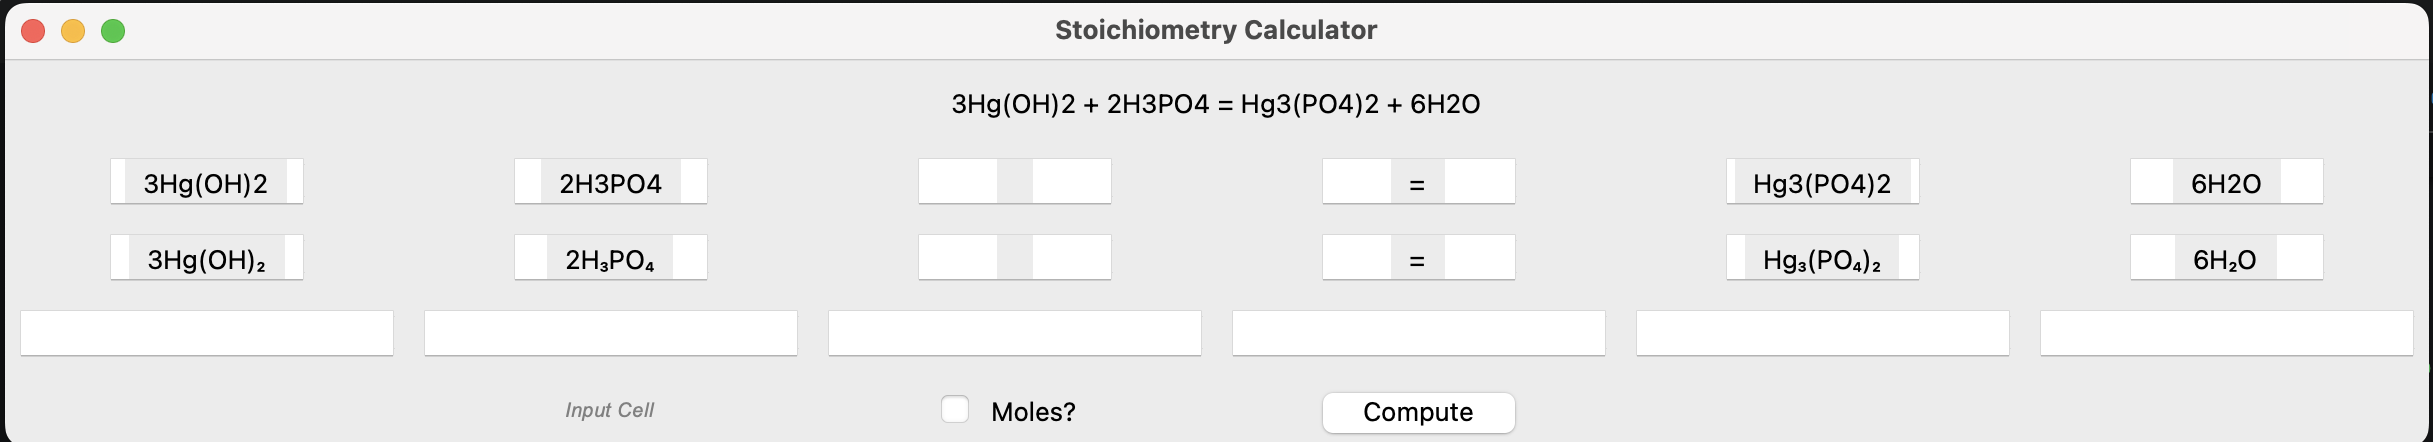
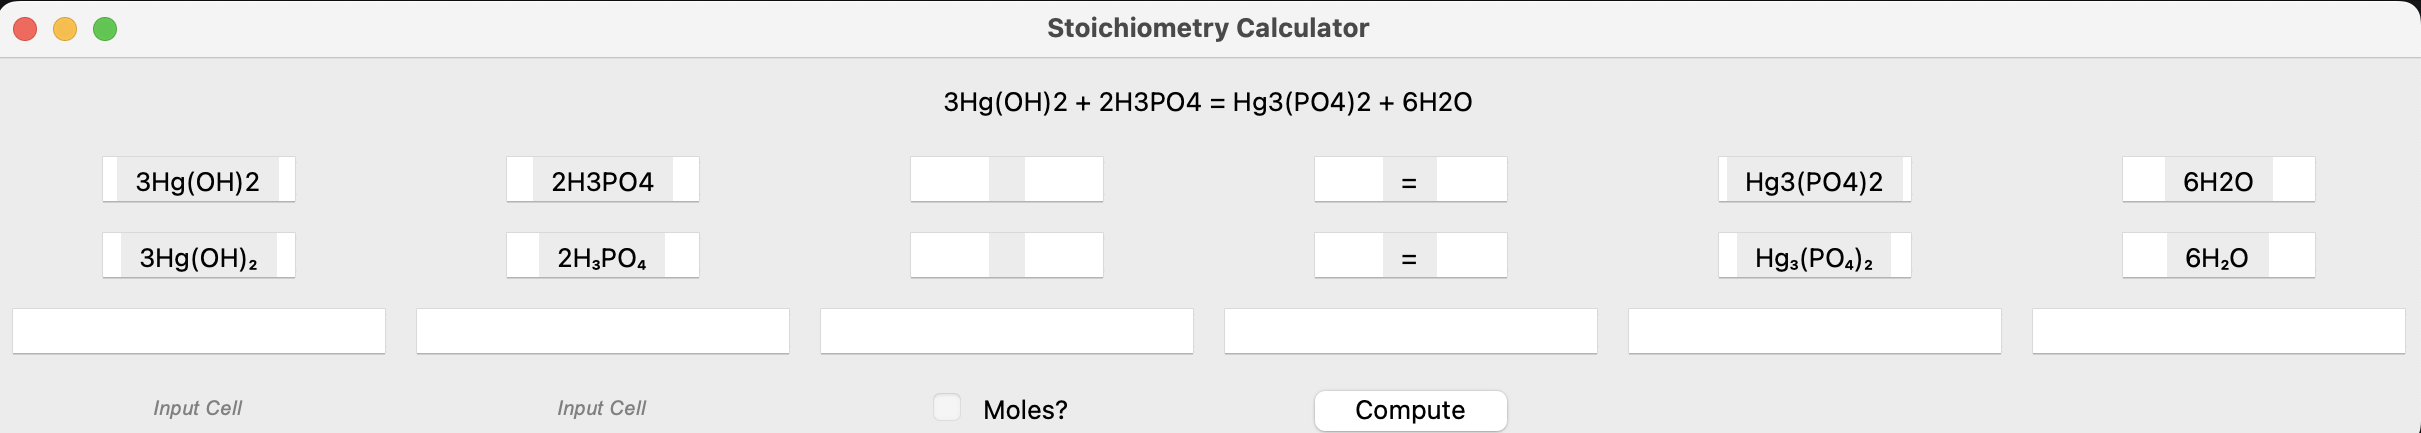
Added user interphase image into the image folder

diff --git a/Homework 2/Lab_measurement.py b/Homework 2/Lab_measurement.py
@@ -6,13 +6,13 @@ from Chemistry import molesAndCompounds, atomCount, splitOnAtomCount, symbolAndM
 with open("/Users/ika/Desktop/Spring_2025/CS5630/python_comput_data_science/Homework 2/Homework 2 short sample input.txt", "r") as file:
     equation = file.readline().strip()
 
-# Parse equation dynamically for any number of reactants/products
+# Parse equation dynamically
 reactants, products = equation.split("=")
 reactants = [r.strip() for r in reactants.split("+")]
 products = [p.strip() for p in products.split("+")]
 
-# Include separators, but replace "|" with an empty string
-compounds = reactants + [""] + ["="] + products  # "|" replaced with ""
+# Include separators but replace "|" with an empty string
+compounds = reactants + [""] + ["="] + products  
 
 # Ensure UI supports at least 6 columns
 while len(compounds) < 6:
@@ -26,17 +26,17 @@ def get_molar_mass(compound):
     atoms = atomCount(compound)
     return sum(float(periodic_data[element]) * int(count) for element, count in atoms.items())
 
-# Store molar masses for all compounds
+# Store molar masses
 molar_masses = {compound: get_molar_mass(compound) for compound in compounds if compound not in ["", "="]}
 
 # Convert formulas to display subscripts properly
 def transform_to_subscript(compound):
-    if compound == "=":  # ✅ Ensure "=" is not transformed
+    if compound == "=":
         return "="
     parts = splitOnAtomCount(compound)
     transformed = ""
     for part in parts:
-        transformed += f"{numberAsSubscript(part)}" if (part.isdigit() and parts.index(part) != 0) else part  # Ensure all numbers convert
+        transformed += f"{numberAsSubscript(part)}" if (part.isdigit() and parts.index(part) != 0) else part
     return transformed
 
 # GUI Setup
@@ -46,88 +46,114 @@ root.title("Stoichiometry Calculator")
 # Display equation
 tk.Label(root, text=equation).grid(row=0, column=0, columnspan=6, pady=10)
 
-# First Row: Chemical Names (Includes `=` but NOT `|`)
+# First Row: Chemical Names
 for i, compound in enumerate(compounds):
     tk.Entry(root, justify="center", width=10, state="readonly",
              readonlybackground="white", fg="black").grid(row=1, column=i, padx=5, pady=5)
     tk.Label(root, text=compound).grid(row=1, column=i, padx=5, pady=5)
 
-# Second Row: Transformed Subscripts (Ensures `=` remains visible)
+# Second Row: Transformed Subscripts
 for i, compound in enumerate(compounds):
-    transformed = transform_to_subscript(compound)  # ✅ This will now keep "=" visible
+    transformed = transform_to_subscript(compound)
     tk.Entry(root, justify="center", width=10, state="readonly",
              readonlybackground="white", fg="black").grid(row=2, column=i, padx=5, pady=5)
     tk.Label(root, text=transformed).grid(row=2, column=i, padx=5, pady=5)
 
-# Third Row: User Inputs & Computed Values (Now includes `=` but NOT `|`)
+# Third Row: User Inputs & Computed Values
 entries = []
 for i, compound in enumerate(compounds):
     entry = tk.Entry(root, justify="center")
     entry.grid(row=3, column=i, padx=5, pady=5)
     entries.append(entry)
 
-# Get the column index of the second reactant where users should enter their measurement
-input_col_index = reactants.index(reactants[1])
-
-# Add a label below the input field to indicate where to enter measurement
+# Label for user input cell
 input_label = tk.Label(root, text="Input Cell", fg="gray", font=("Arial", 10, "italic"))
-input_label.grid(row=4, column=input_col_index, pady=2)
+input_label.grid(row=4, column=1, pady=2)
 
-# Checkbox for Moles/Grams (Only Converts, Doesn't Compute)
+# Checkbox for Moles/Grams
 checkbox_var = tk.BooleanVar()
 checkbox = tk.Checkbutton(root, text="Moles?", variable=checkbox_var)
 checkbox.grid(row=4, column=2, padx=5, pady=5)
 
-# Function to Compute Stoichiometry with Limiting Reagent
+# **Explicitly store which reactant was entered by the user**
+user_input_storage = {}
+user_selected_input = None  # Track which reactant was entered
+
+# Compute Stoichiometry while keeping the correct input cell unchanged
 def compute_stoichiometry():
     try:
-        # Get the user input directly from the second reactant's cell
-        reference_compound = reactants[1]  # The second reactant is used as input reference
-        lab_measurement = float(entries[input_col_index].get())  
+        global user_selected_input  
         is_moles = checkbox_var.get()
 
-        # Convert only the other compounds, not the user input
-        reference_moles = lab_measurement if is_moles else lab_measurement / molar_masses[reference_compound]
+        # Identify the reactant where the user entered a value
+        user_input_reactant = None
+        user_input_value = None
+        user_input_index = None
 
-        # Compute moles of all reactants based on stoichiometric ratios
-        reactant_moles = {reference_compound: reference_moles}
+        for i, reactant in enumerate(reactants):
+            value = entries[i].get().strip()
+            if value:  # User input found
+                user_input_reactant = reactant
+                user_input_value = float(value)
+                user_input_index = i
+                break  # Stop once we find the first non-empty input
 
+        if user_input_reactant is None:
+            messagebox.showerror("Error", "Please enter a measurement for at least one reactant.")
+            return
+
+        # **Ensure the correct input reactant remains stored**
+        if user_selected_input is None or user_selected_input != user_input_reactant:
+            user_selected_input = user_input_reactant  
+            user_input_storage[user_selected_input] = user_input_value  
+
+        # **Prevent modifying user input**
+        if user_selected_input in user_input_storage:
+            user_input_value = user_input_storage[user_selected_input]
+
+        # Convert only if needed (for computation, not storage)
+        reference_moles = user_input_value if is_moles else user_input_value / molar_masses[user_selected_input]
+
+        # Compute moles of all reactants based on ratios
+        reactant_moles = {user_selected_input: reference_moles}
         for reactant in reactants:
-            if reactant != reference_compound:  # Other reactants should be computed
+            if reactant != user_selected_input:
                 coefficient = molesAndCompounds(reactant)[0]
-                reactant_moles[reactant] = reference_moles * (coefficient / molesAndCompounds(reference_compound)[0])
+                user_coeff = molesAndCompounds(user_selected_input)[0]
+                reactant_moles[reactant] = reference_moles * (coefficient / user_coeff)
 
-        # Find the limiting reagent correctly based on **moles**
+        # Find the limiting reagent
         smallest_ratio = float("inf")
         limiting_reagent = None  
 
         for reactant in reactant_moles:
             ratio = reactant_moles[reactant] / molesAndCompounds(reactant)[0]
-            print(f"Checking Limiting Reagent: {reactant}, Ratio: {ratio:.6f}")  # Debugging Output
-
             if ratio < smallest_ratio:
                 smallest_ratio = ratio
-                limiting_reagent = reactant  # Track first smallest reagent
+                limiting_reagent = reactant
 
-        print(f"Final Limiting Reagent: {limiting_reagent}")
-
-        # Compute theoretical yield of products based on limiting reagent
+        # Compute theoretical yield of products
         results = {}
         for compound in products:  
             coefficient = molesAndCompounds(compound)[0]
             limiting_coeff = molesAndCompounds(limiting_reagent)[0]
             theoretical_moles = (reactant_moles[limiting_reagent] / limiting_coeff) * coefficient
 
-            # Convert to grams if checkbox is unchecked (grams mode)
+            # Convert to grams if unchecked
             results[compound] = theoretical_moles if is_moles else theoretical_moles * molar_masses[compound]
 
-        # Populate the outputs dynamically for all valid reactants and products (except user input)
+        # **Update outputs while keeping the user input unchanged**
         for i, compound in enumerate(compounds):
-            if compound not in ["", "="]:  # Skip separators
+            if i == user_input_index:  
+                continue  # Do not modify user input
+            if compound not in ["", "="]:  
                 value = reactant_moles.get(compound, results.get(compound, 0))
-                if compound != reference_compound:  # Do NOT change user input cell
-                    entries[i].delete(0, tk.END)
-                    entries[i].insert(0, f"{value:.4f}")
+                entries[i].delete(0, tk.END)
+                entries[i].insert(0, f"{value:.4f}")
+
+        # **Ensure user input remains intact**
+        entries[user_input_index].delete(0, tk.END)
+        entries[user_input_index].insert(0, f"{user_input_storage[user_selected_input]:.4f}")
 
         # Show Limiting Reagent
         messagebox.showinfo("Limiting Reagent", f"The limiting reagent is {limiting_reagent}.")
@@ -135,7 +161,7 @@ def compute_stoichiometry():
     except ValueError:
         messagebox.showerror("Error", "Please enter a valid numeric input.")
 
-# Compute Button (Calls compute_stoichiometry)
+# Compute Button
 compute_button = tk.Button(root, text="Compute", command=compute_stoichiometry)
 compute_button.grid(row=4, column=3, padx=5, pady=5)
 
